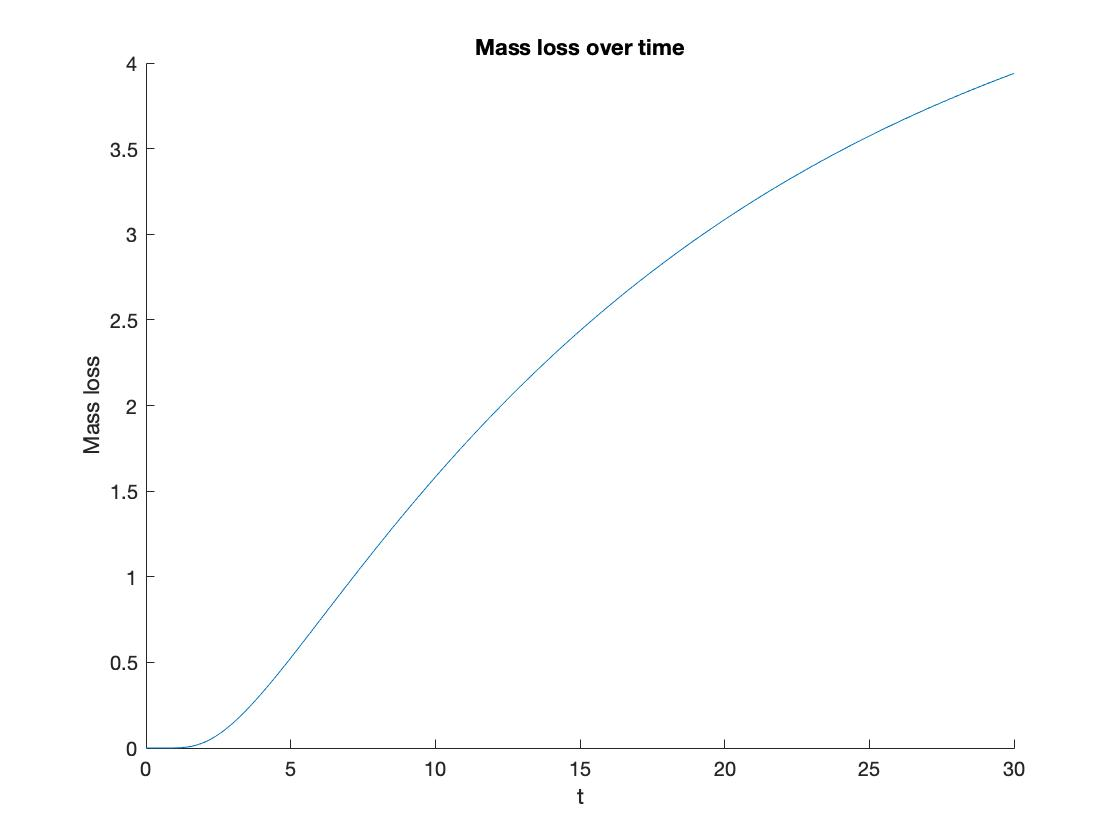
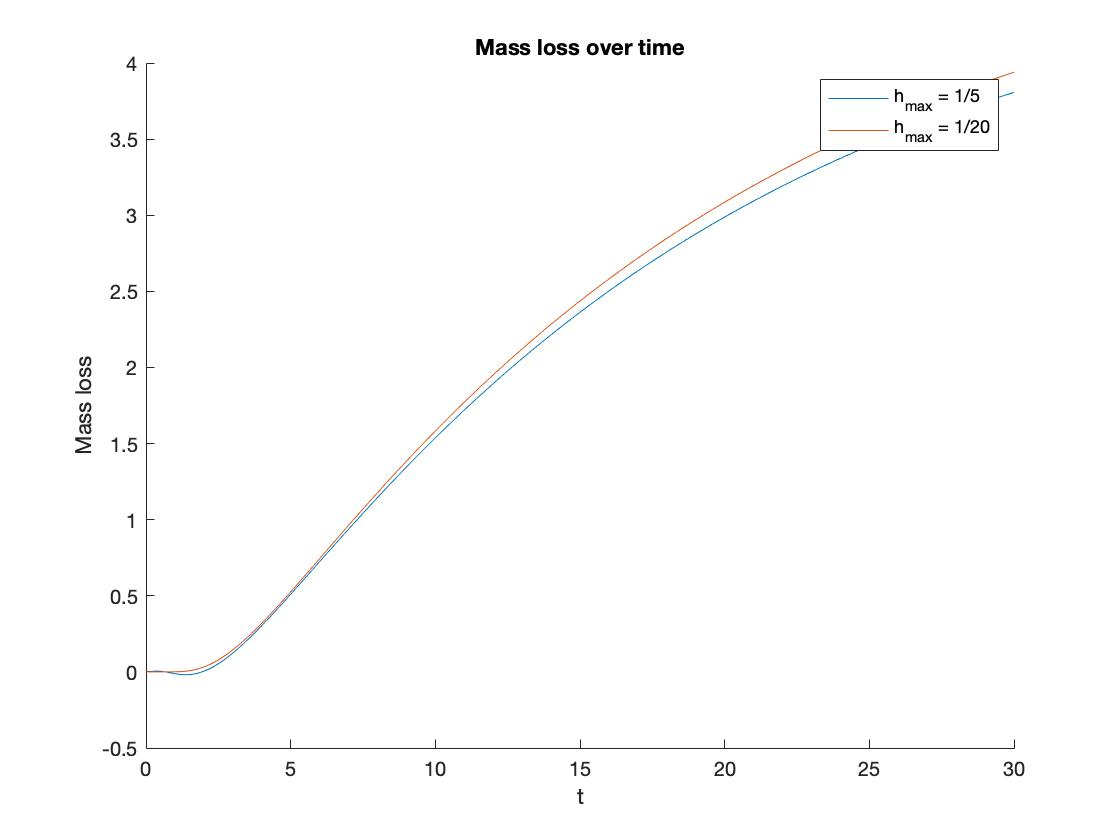
additional updates to heat eq

diff --git a/ActualFEM/heat_eq2D.m b/ActualFEM/heat_eq2D.m
@@ -5,12 +5,14 @@ alpha = 0.01;
 R = 0.5;
 r = 0.3;
 T = 30;
-time = 0:0.01:T;
+time = 0:0.1:T;
 mesh_sizes = [1/5, 1/20];
-beta = 0.2;
-gamma = 0.5;
+beta = 1;
+gamma = 0.2;
 
 geometry = @circleg;
+
+mass_loss = zeros(2,length(time));
 
 %Calculates the solution for both mesh sizes
 for k = 1:length(mesh_sizes)
@@ -36,6 +38,7 @@ for k = 1:length(mesh_sizes)
     
     xi = zeros(length(A),length(time));
     xi(:,1) = xi_0;
+    mass_loss(k,1) = 0;
     b_vec = zeros(length(A),length(time));
     
     %Uses Crank-Nicholson to make the time discretisation
@@ -46,8 +49,24 @@ for k = 1:length(mesh_sizes)
         xi(:,i) = (1/kn.*M+(1/2).*A)\((1/kn.*M-(1/2) .* A)* ...
         xi(:,i-1)+b);
         b_vec(:,i) = b;
+        
+        %Calculates the mass loss
+        g = @(index) xi(index,1) - xi(index,i);
+        mass_loss(k,i) = integration_2D(g,p,t);
+        
     end
+   
+    
 end
+
+figure(1)
+hold on
+xlabel('t')
+ylabel('Mass loss')
+title('Mass loss over time, \gamma = 0.2')
+plot(time,mass_loss(1,:),time,mass_loss(2,:))
+legend('h_{max} = 1/5', 'h_{max} = 1/20')
+hold off
 
 %for i = 1:length(time)
 %    pdemesh(p,e,t,xi(:,i))

diff --git a/ActualFEM/part2_timedep.m b/ActualFEM/part2_timedep.m
@@ -9,6 +9,8 @@ mesh_sizes = [1/5, 1/20];
 
 geometry = @circleg;
 
+mass_loss = zeros(2,length(time));
+
 %Calculates the solution for both mesh sizes
 for k = 1:length(mesh_sizes)
     hmax = mesh_sizes(k);
@@ -18,7 +20,6 @@ for k = 1:length(mesh_sizes)
     A = alpha.*A;
     x = p(1, e(1,:));
     y = p(2, e(1,:));
-    iii = 2;
     
     A(e(1,:),:) = I(e(1,:),:);
     b(e(1,:)) = 0;
@@ -41,20 +42,21 @@ for k = 1:length(mesh_sizes)
         xi(:,i-1)+b);
       
     end
+    %Calculates the mass loss
+    for i = 1:length(time)
+    g = @(index) xi(index,1) - xi(index,i);
+    mass_loss(k,i) = integration_2D(g,p,t);
+    end
 end
 
-%Calculates and plots the mass loss
-mass_loss = zeros(1,length(time));
-for i = 1:length(time)
-    g = @(index) xi(index,1) - xi(index,i);
-    mass_loss(i) = integration_2D(g,p,t);
-end
+%Plots the mass loss
 
 figure(1)
 hold on
 xlabel('t')
 ylabel('Mass loss')
 title('Mass loss over time')
-plot(time,mass_loss)
+plot(time,mass_loss(1,:),time,mass_loss(2,:))
+legend('h_{max} = 1/5', 'h_{max} = 1/20')
 hold off
 

diff --git a/ActualFEM/integration_2D.m b/ActualFEM/integration_2D.m
@@ -4,7 +4,7 @@ for K = 1:size(t,2)
     nodes = t(1:3,K);
     x = p(1,nodes);
     y = p(2,nodes);
-    [area_K, ~, ~] = hat_gradients(x,y);
+    area_K = polyarea(x,y);
 
     sum_function = sum(g(nodes)); 
     result = result + area_K / 3 * sum_function;

diff --git a/ActualFEM/heat_source.m b/ActualFEM/heat_source.m
@@ -1,3 +1,3 @@
 function f = heat_source(beta,gamma,M,xi)
 
-f = beta .* M * (xi-gamma.*xi.^2);
+f = beta .* M *     (xi-gamma.*xi.^2);
